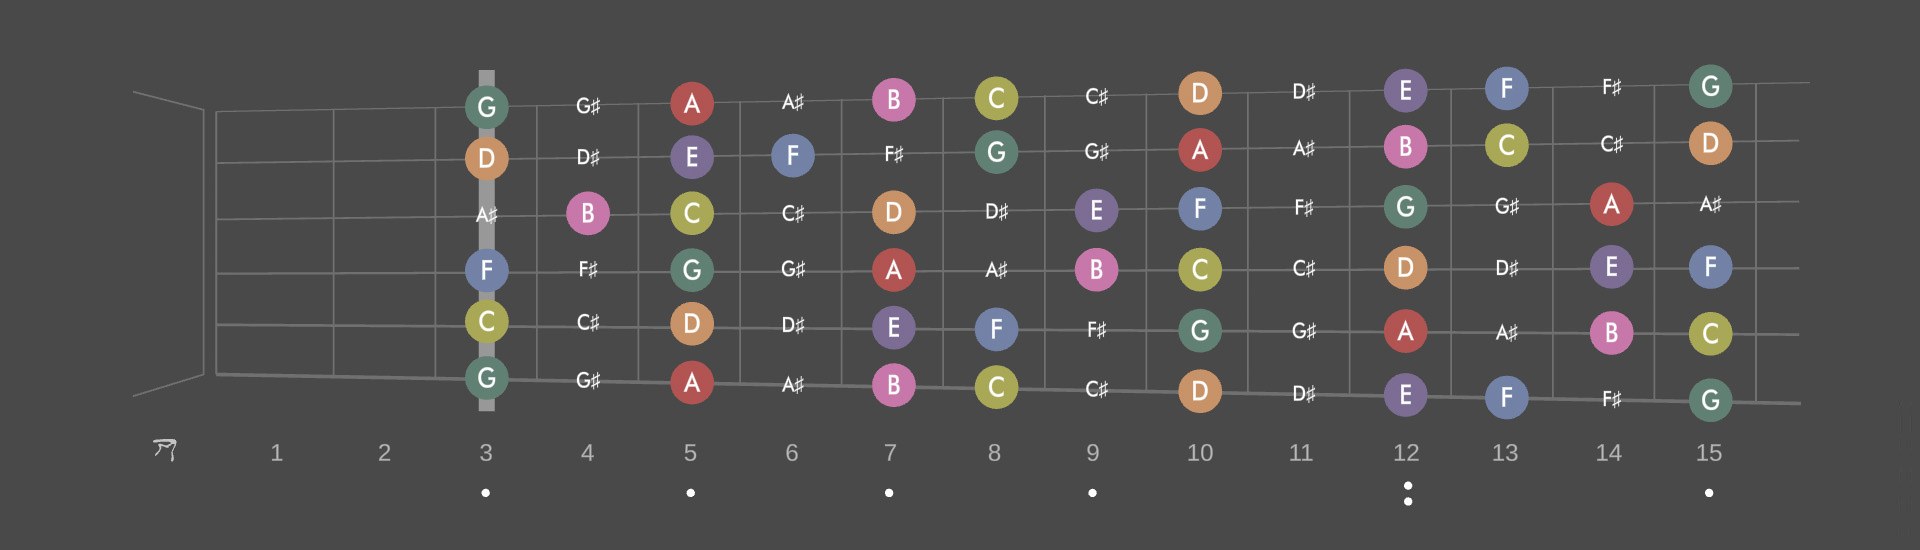
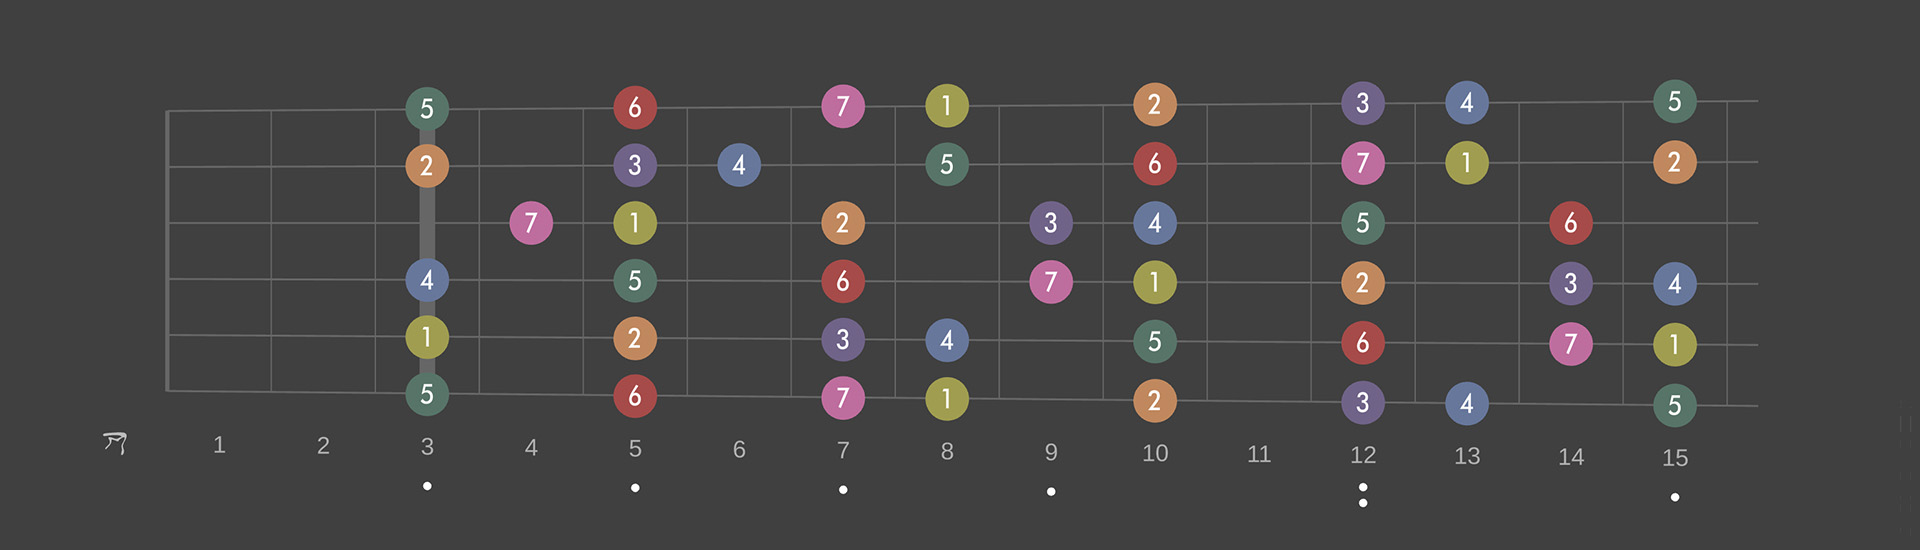
sh command line update

diff --git a/user.html b/user.html
@@ -392,18 +392,16 @@ window.__SJ_BAR_CLR__ = "#3e3e3e";
 
 <!--#region panel-->
 <div class="dashed-line faq-break" id="Settings – Tuning & Guitar Configuration"></div>
-<span class="cms-sub-heading">Settings – Tuning & Guitar Configuration</span>
+<span class="cms-sub-heading">Settings – Chord tuning</span>
 
 <div id="collapse4" class="">
 
 <br>
 
 <!--#region text-->
-Here in the settings is where the Guitar tuning can be configured. This is set as a root note with the option to drop the 6th string (Drop D and equivalent). When this is set the fretboard and chord diagrams will automatically update to reflect the new tuning.
+The guitar fretboard tuning is fully configured using the dropdowns next to the strings (in 'unlocked' mode). But in the settings it is possible to offset the chords to any relative tuning (as in any tuning where the strings are tuned to the same interval as EADGBE) and there's also the option to drop the 6th string (Drop D and equivalent). When this is set the chord diagrams will update automatically, but the fretboard tuning is set independently.
 <br><br>
-There is also the option to set the tuning at a per-string level, although please note that whilst this is supported by the fretboard diagram, chord shapes will not update to match this.
-<br><br>
-There are additional guitar configuration options to vertically invert the fretboard, choos a 4-string bass instead of a 6-string guitar diagram, select between a 15 fret and 24 fret diagram, and left/ right handed modes (this is essentially a horizontal inversion of the diagrams).
+So for example, if you wanted to set the application to display in Drop C tuning then you'd set the Chord tuning offset to D (as Drop C is D with the 6th string lowered to C) set 'Drop 6th' to 'yes' and then configure the per-string tuning of the fretboard to CGCFAD.
 <!--#endregion text-->
 
 </div>
@@ -418,7 +416,7 @@ There are additional guitar configuration options to vertically invert the fretb
      <br>
 
          <!--#region text-->
-         The Save and Load icons found within the settings can be used to write your current view to a plain text file and then load it back into the application. This works well for quickly swapping between arrangements.
+         The save and load options in the File menu can be used to write your current view to a plain text file and then load it back into the application. This works well for quickly swapping between arrangements.
          <!--#endregion text-->
 
  </div>
@@ -433,7 +431,7 @@ There are additional guitar configuration options to vertically invert the fretb
      <br>
 
          <!--#region text-->
-         As well as the default English note names it is possible to change over the notes to either used fixed do solfège (Do, Re, Mi...) or to use relative names (relative Do or as numerals). Please note that relative names require a scale preset to be loaded (as this is what they will be relative to) and otherwise the notes will not display.
+         As well as the default English note names it is possible to change over the notes to either used fixed do solfège (Do, Re, Mi...) or to use names to the scale (such as degrees or movable do).
          <!--#endregion text-->
 
  </div>
@@ -446,9 +444,7 @@ There are additional guitar configuration options to vertically invert the fretb
          <div id="collapse4" class="">
  
              <br>
- 
-                 <!--#region text-->
-                 When the application is run for the first time it automatically generates a 'Colours.ini' file that includes the hex values for all of the note highlighting colours. It's possible to change these by opening the Colour.ini file in the text or code editor of your choice and adjusting the hex values as desired.
+                The note colours can be set using the colour wheel in the settings. It's also possible to set the hex codes directly in the 'Colours.ini' file that is generated when the application is run for the first time.
                  <br><br>
                  The 'Colours.ini' file location varies depending on your platform:<br><br>
                  <strong>Windows and Linux</strong><br>
@@ -457,7 +453,7 @@ There are additional guitar configuration options to vertically invert the fretb
                  <strong>Mac</strong><br>
                  &nbsp;&nbsp;~Library/Application Support/com.DraculasCave.AudioTheoryGuitars/Data/
                  <br><br>
-                 If you want to revert back to the original colours, the easiest way to do this is to delete the Colours.ini file and then next time the application is run it will make a new one automatically with the default values.
+                 If you delete the Colours.ini file then next time the application is run it will make a new one automatically with the default values.
                  <!--#endregion text-->
  
          </div>
@@ -493,14 +489,12 @@ There are additional guitar configuration options to vertically invert the fretb
           On Mac and Linux the built-in audio drivers are able to support low latencies out-of-the-box. This means you are unlikley to have latency issues with the default settings, however there is still a DSP buffer size that can be configured in the options. A lower DSP value means less latency, however this requires more CPU power. If the DSP is set too low for the computer to handle then this will typically result in audio glitches such as pops and clicks. 
          
          <br><br>
-          <img class="drop-shadow user-guide-screenshot" src="images/AudioTheory-DSP-settings.png"  alt="AudioTheory Latency" />
+          <img class="drop-shadow user-guide-screenshot" src="images/AT-latency-mac.jpg"  alt="AudioTheory Latency" />
 
           <br>The DSP value can be set using the dropdown here in the options.
 
         <br><br>
           To get the best result may require a bit of trial and error. Essentially you want to have the buffer set to as lower value as possible without audio playback glitching or containing artefacts. For many modern computers you will be able to set this all the way down to the smallest (fastest) value, 32kbps.
-<br><br>
-          <img class="drop-shadow user-guide-screenshot" src="images/AudioTheory-DSP-settings-open.png"  alt="AudioTheory Latency" />
 
           <!--#endregion text-->
  
